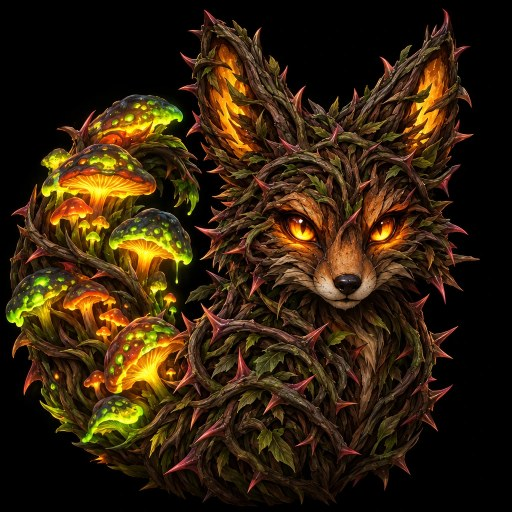
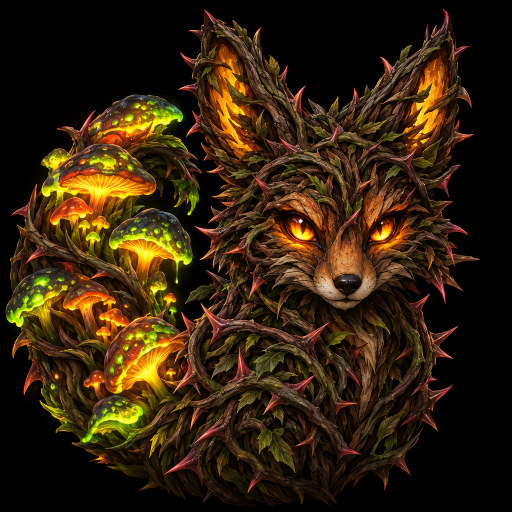
Hideout build 29: all ten named mythics have their pictures
- tools/named-art.js converts Matt's "named myth thumbs" folder
  (Meshy_AI_Icon_<Name>_Mythic.png, 1024px) to items/named/<id>.jpg,
  512px JPEG, matching each file to its NAMED_MYTHICS id by name. All ten
  are wired (the five from build 27 re-made from the original PNGs).
- tools/set-art.js also finds Matt's staves ("..._Stave_Mythic.png") and
  prefers his newer *_Mythic icons over the old concept renders; the Void
  staff and polearm now come from the Arcane folder.

diff --git a/public/hideout.html b/public/hideout.html
@@ -1,6 +1,6 @@
 <!DOCTYPE html>
 <html><head><meta charset="utf-8">
-<meta name="hideout-build" content="28">
+<meta name="hideout-build" content="29">
 <link href="https://fonts.googleapis.com/css2?family=Cinzel+Decorative:wght@700&display=swap" rel="stylesheet">
 <style>
 html,body{margin:0;height:100%;background:#111;overflow:hidden;font-family:sans-serif}
@@ -228,7 +228,7 @@ canvas{display:block}
 // Bumped on every push to hideout-wip (it's the commit count on that branch). The game embeds a copy of this
 // file, so the number in its corner vs. the number on the live standalone page says how far behind the copy is.
 // Keep it in step with the <meta name="hideout-build"> tag above.
-const HIDEOUT_BUILD = 28;
+const HIDEOUT_BUILD = 29;
 window.HIDEOUT_BUILD = HIDEOUT_BUILD;
 document.getElementById('buildTag').textContent = 'hideout build ' + HIDEOUT_BUILD;
 
@@ -531,24 +531,24 @@ const SET_WEAPONS = { void:['sword','staff','polearm'] };
 // (the game's stat keys), a signature power the MAIN GAME gives them in the dungeon, and they count toward any set;
 // you can wear two at once. art: Matt's picture once he makes it (items/named/<id>.webp) — until then the category
 // art stands in.
-const NAMED_ART_DIR = ITEMS_DIR + 'named/'; // Matt's pictures, shrunk to 512px JPEG
+const NAMED_ART_DIR = ITEMS_DIR + 'named/'; // Matt's pictures (named myth thumbs folder), shrunk by tools/named-art.js
 const NAMED_MYTHICS = {
-  rootsplitter:       { type:'weapon',   name:'Rootsplitter',             art:null, stats:{ dmg:30, hp:90, spd:15 },
+  rootsplitter:       { type:'weapon',   name:'Rootsplitter',             art:NAMED_ART_DIR+'rootsplitter.jpg', stats:{ dmg:30, hp:90, spd:15 },
     power:'Every 4th swing sends roots along the ground that hold enemies in place for 2 seconds.',
     lore:'A war-axe of living ironwood. The blade still sprouts leaves after every swing.' },
-  last_lantern:       { type:'weapon',   name:'The Last Lantern',         art:null, stats:{ dmg:24, tow:30, tarea:15 },
+  last_lantern:       { type:'weapon',   name:'The Last Lantern',         art:NAMED_ART_DIR+'last_lantern.jpg', stats:{ dmg:24, tow:30, tarea:15 },
     power:'Enemies near you glow and take 25% more damage from your defenses.',
     lore:'A halberd with a star caged at its tip. The dark leans away from it.' },
   mossheart_aegis:    { type:'armor',    name:'Mossheart Aegis',          art:NAMED_ART_DIR+'mossheart_aegis.jpg', stats:{ hp:170, def:22, regen:4.5 },
     power:'Stand still for 2 seconds and you and nearby defenses start healing.',
     lore:'Plate grown, not forged: bark and moss around a heartwood core that still beats.' },
-  voidwoven_mantle:   { type:'armor',    name:'Voidwoven Mantle',         art:null, stats:{ def:24, move:18, mana:50 },
+  voidwoven_mantle:   { type:'armor',    name:'Voidwoven Mantle',         art:NAMED_ART_DIR+'voidwoven_mantle.jpg', stats:{ def:24, move:18, mana:50 },
     power:'The first hit you take each wave is swallowed, and you blink a few steps away.',
     lore:'Stitched from the night between the stars. Blows land somewhere else.' },
-  tear_of_the_rootgate:{ type:'amulet',  name:'Tear of the Rootgate',     art:null, stats:{ mana:70, move:15, tow:25 },
+  tear_of_the_rootgate:{ type:'amulet',  name:'Tear of the Rootgate',     art:NAMED_ART_DIR+'tear_of_the_rootgate.jpg', stats:{ mana:70, move:15, tow:25 },
     power:'Once per wave, step through a portal to any of the three gates.',
     lore:'A teardrop of crystal with a tiny portal still turning inside.' },
-  wardens_oath:       { type:'amulet',   name:'The Warden\'s Oath',       art:null, stats:{ tow:42, def:12, hp:80 },
+  wardens_oath:       { type:'amulet',   name:'The Warden\'s Oath',       art:NAMED_ART_DIR+'wardens_oath.jpg', stats:{ tow:42, def:12, hp:80 },
     power:'The first enemy through each gate each wave is slowed and marked, and your defenses focus it.',
     lore:'A bronze sigil that grows warm when something is coming through the gate.' },
   bramblewhisk:       { type:'familiar', name:'Bramblewhisk',             art:NAMED_ART_DIR+'bramblewhisk.jpg', stats:{ fdmg:36, frate:45, move:10 },

diff --git a/tools/named-art.js b/tools/named-art.js
@@ -1,0 +1,33 @@
+// Turns Matt's named-mythic icons (Pictures\dungeon art,\Weapon sets\named myth thumbs\Meshy_AI_Icon_<Name>_Mythic.png,
+// 1024px PNG ~1.5 MB) into small hideout pictures: public/assets/hideout/items/named/<id>.jpg, 512px JPEG. The ids are
+// NAMED_MYTHICS keys in hideout.html; a picture is matched by the name in its file name.
+// Usage (from dungeon-hold/):  node tools/named-art.js
+const fs = require('fs'), path = require('path');
+const { Jimp, JimpMime } = require('jimp');
+
+const SRC = 'C:/Users/Matt/Pictures/dungeon art,/Weapon sets/named myth thumbs';
+const OUT = path.join(__dirname, '..', 'public', 'assets', 'hideout', 'items', 'named');
+const IDS = { // what to look for in the file name (lower case, no spaces) -> NAMED_MYTHICS id
+  rootsplitter: 'rootsplitter', thelastlantern: 'last_lantern', mossheartaegis: 'mossheart_aegis',
+  voidwovenmantle: 'voidwoven_mantle', tearoftherootgate: 'tear_of_the_rootgate', wardensoath: 'wardens_oath',
+  bramblewhisk: 'bramblewhisk', oldlamplight: 'old_lamplight', gloomcapcenser: 'gloomcap_censer',
+  hourglasshollowsand: 'hourglass_hollow_sand',
+};
+
+(async () => {
+  fs.mkdirSync(OUT, { recursive: true });
+  const files = fs.readdirSync(SRC).filter(f => /\.(png|jpe?g)$/i.test(f));
+  const done = new Set();
+  for (const f of files) {
+    const key = Object.keys(IDS).find(k => f.toLowerCase().replace(/[^a-z]/g, '').includes(k));
+    if (!key) { console.log('  (no match)', f); continue; }
+    const img = await Jimp.read(path.join(SRC, f));
+    img.resize({ w: 512, h: 512 });
+    const buf = await img.getBuffer(JimpMime.jpeg, { quality: 88 });
+    fs.writeFileSync(path.join(OUT, IDS[key] + '.jpg'), buf);
+    done.add(IDS[key]);
+    console.log(IDS[key].padEnd(22), Math.round(buf.length / 1024) + 'KB  <-', f);
+  }
+  const missing = Object.values(IDS).filter(id => !done.has(id));
+  console.log(missing.length ? 'still missing: ' + missing.join(', ') : 'all ten done');
+})().catch(e => { console.error(e); process.exit(1); });

diff --git a/tools/set-art.js b/tools/set-art.js
@@ -26,7 +26,10 @@ const PIECES = ['armor', 'amulet', 'sword', 'staff', 'polearm', 'trinket'];
     let r = 0, g = 0, b = 0, n = 0;
     const got = [];
     for (const piece of PIECES) {
-      const f = files.find(x => x.toLowerCase().includes(piece));
+      // Matt names his staves "..._Stave_Mythic.png"; prefer his newer *_Mythic icons over the old concept renders
+      const words = piece === 'staff' ? ['stave', 'staff'] : [piece];
+      const hits = files.filter(x => words.some(w => x.toLowerCase().includes(w)));
+      const f = hits.find(x => /mythic/i.test(x)) || hits[0];
       if (!f) { console.log('  MISSING', id, piece); continue; }
       const img = await Jimp.read(path.join(dir, f));
       img.resize({ w: 512, h: 512 });
